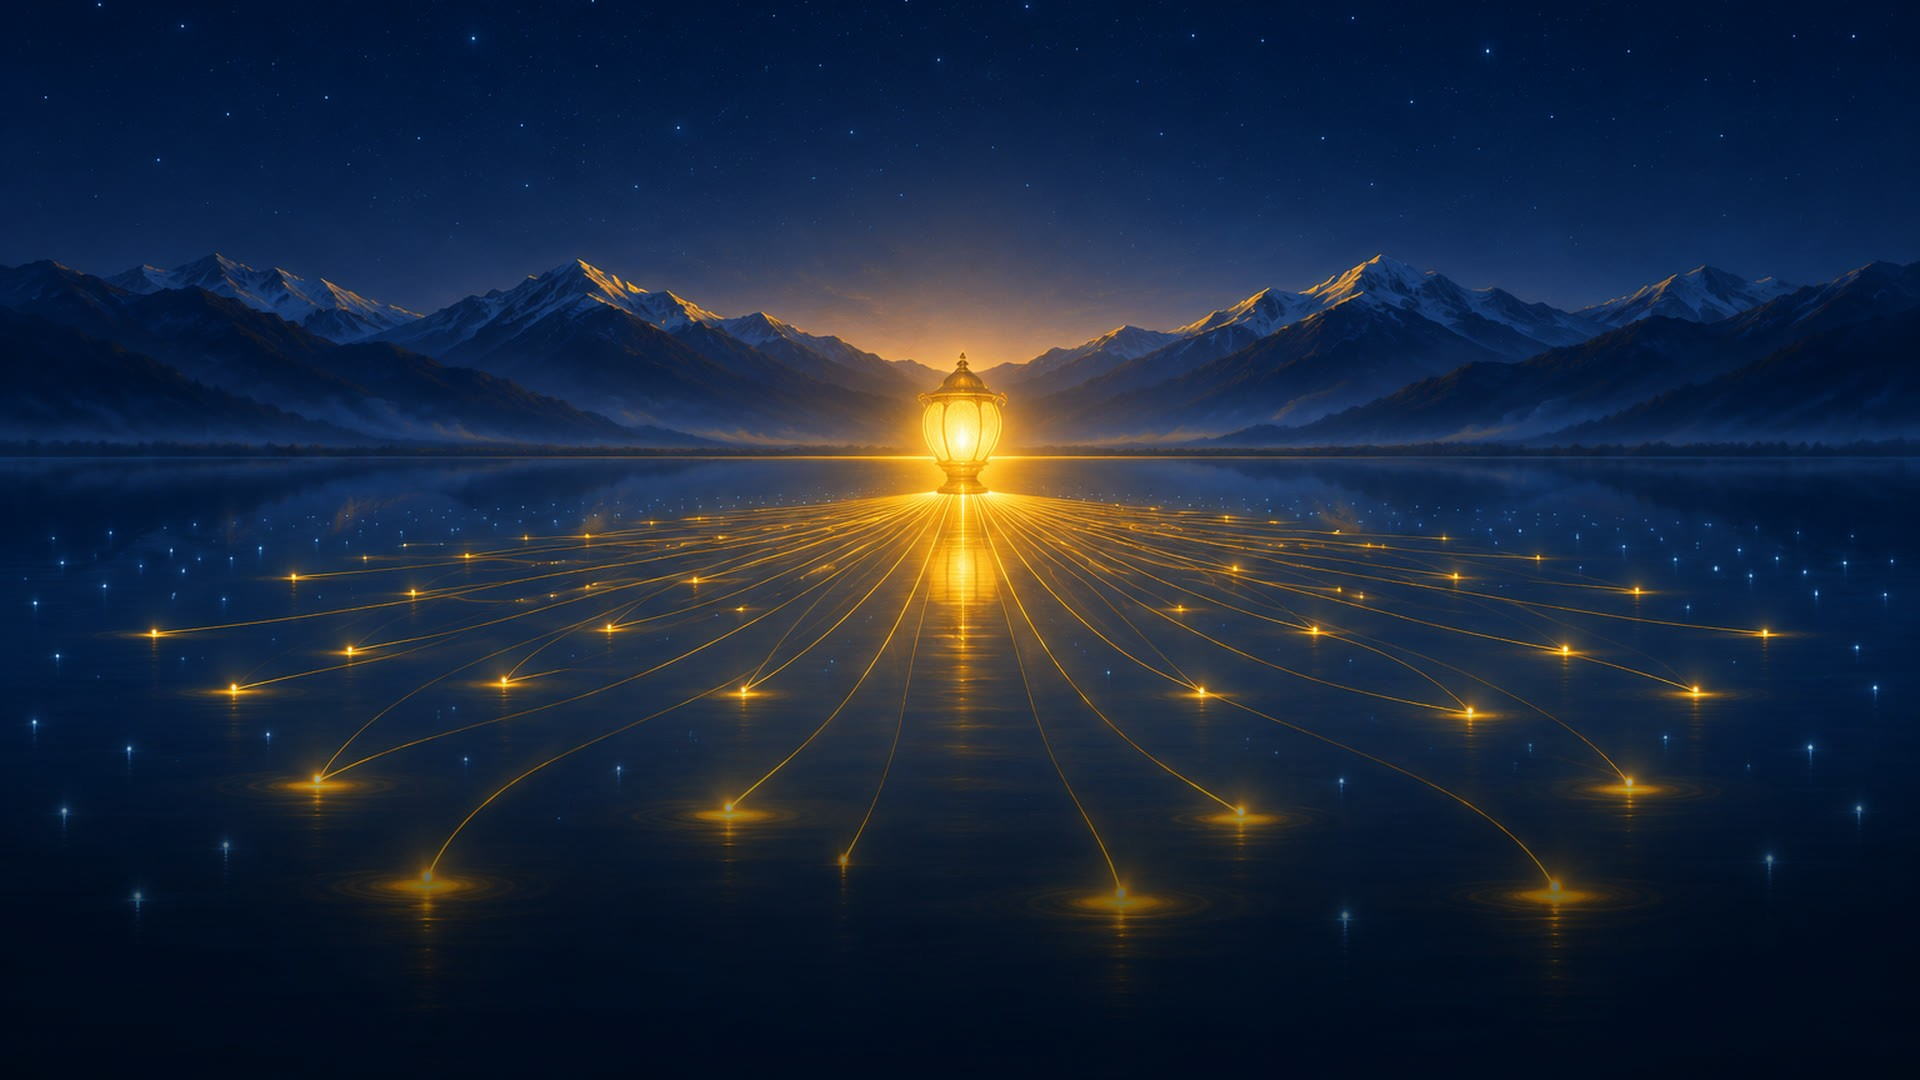
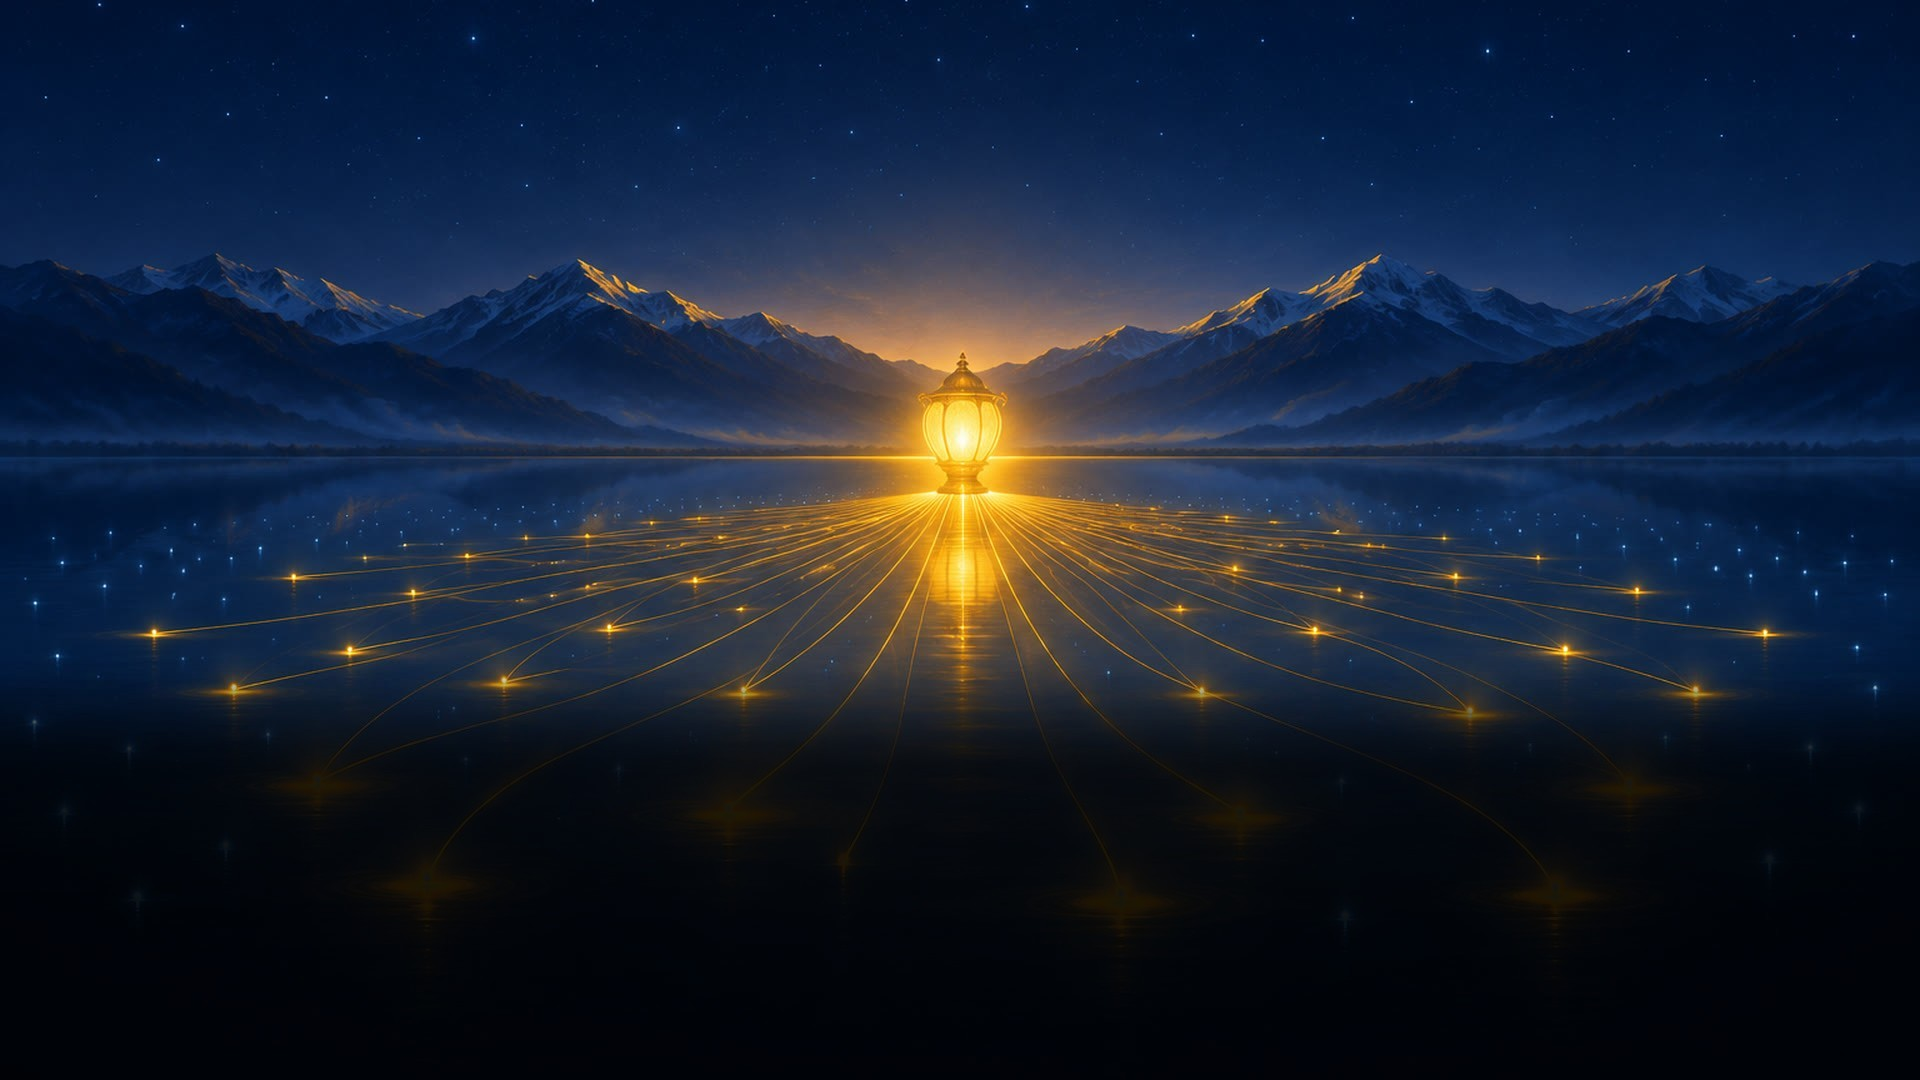
Song 10: threads plate lower third calmed with the strong setting
Claude-Session: https://claude.ai/code/session_01DSHsMeB7ain7qg3RYXYMEW

Changed region(s): [[0.0, 0.6111, 1.0, 0.9167]]

diff --git a/engine/songs/s10_mother_saves.py b/engine/songs/s10_mother_saves.py
@@ -227,7 +227,7 @@ SCENES = [
     # 3 Her words go out: gold threads from the lantern to the lights on the water; Consideration
     dict(image=_P + "threads.jpg", t0=18.0, t1=31.7, fade_in=1.2, fade_out=1.2, transition="fade",
          zoom=1.2, pan=((0.0, 0.085), (0.0, 0.085)), water=True, water_line=0.52, water_strength=0.45,
-         gain=0.85, calm_gain=0.12),
+         gain=0.85, calm_gain=0.6),   # threads.jpg also re-calmed with the strong setting
     # 4 circles of peace: wherever a word reached, the water settles into a still mirror; Encouragement
     dict(image=_P + "circles_of_peace.jpg", t0=30.5, t1=45.2, fade_in=1.2, fade_out=1.2, transition="fade", calm_gain=0.85,
          zoom=(1.0, 1.04), water=True, water_line=0.61, water_strength=0.15,

diff --git a/assets/plates/s10/calm_lower_third.py b/assets/plates/s10/calm_lower_third.py
@@ -3,6 +3,7 @@ the performers). Below 40 percent of the height from the bottom the picture is d
 15 percent and below, and highlights there are compressed (no bright glints), so the stage stays quiet.
 With "strong" (used for great_lamp, whose reflection road runs to the bottom edge) the road is faded much further
 below a third of the height: to 30 percent, with a lower knee.
+threads.jpg was also run once more with "strong" on its calmed copy (round 4 review: its lower third was busy).
 
 The originals are in Anthony's Drive folder (Assets/s10/s10_plate1 to s10_plate6). Run once on the originals:
 python3 assets/plates/s10/calm_lower_third.py <in.jpg> <out.jpg> [strong]
